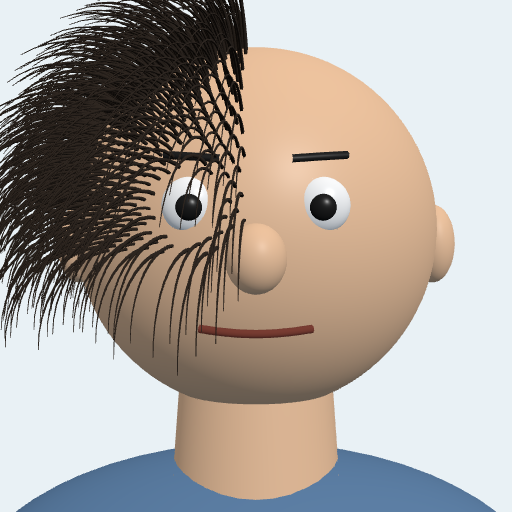
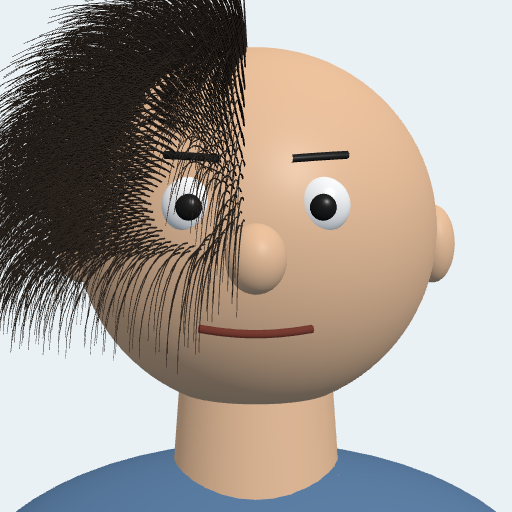
毛はえ放題: 毛を細く・本数を増やす
Claude-Session: https://claude.ai/code/session_012CJabZ1fPZ3dToUCoxXZwD

Changed region(s): [[0.0, 0.0, 0.5, 0.6875]]

diff --git a/games/hair-grow/index.html b/games/hair-grow/index.html
@@ -198,7 +198,7 @@
     });
 
     // ---------- 毛：1本ずつモーフ（毛根 ⇔ 長いうねり毛） ----------
-    const SEG = 10, RAD = 6, LONG = 1.1;
+    const SEG = 8, RAD = 4, LONG = 1.1;
     function strand(len, bend) {
       const pos = [], c = new THREE.Vector3(0, 0, 0);
       const center = [];
@@ -211,7 +211,7 @@
       for (let i = 0; i <= SEG; i++) {
         const a = bend * (i / SEG) * 1.6;
         const nY = new THREE.Vector3(0, -Math.sin(a), Math.cos(a)); // 断面の向き
-        const r = (len > 0.01 ? 0.016 : 0.0) * (1 - 0.85 * i / SEG);
+        const r = (len > 0.01 ? 0.0075 : 0.0) * (1 - 0.8 * i / SEG);
         for (let j = 0; j < RAD; j++) {
           const th = j / RAD * Math.PI * 2;
           const p = center[i].clone().addScaledVector(new THREE.Vector3(1, 0, 0), Math.cos(th) * r).addScaledVector(nY, Math.sin(th) * r);
@@ -234,7 +234,7 @@
 
     // 毛根を頭に並べる（目と口はよける）
     const roots = [];
-    const N = 4200, GA = Math.PI * (3 - Math.sqrt(5));
+    const N = 13000, GA = Math.PI * (3 - Math.sqrt(5));
     const avoid = [[-0.3, 0.12, 0.17], [0.3, 0.12, 0.17], [0, -0.45, 0.12], [0, -0.12, 0.16], [-0.29, 0.34, 0.07], [0.29, 0.34, 0.07]];
     for (let i = 0; i < N; i++) {
       const y = 1 - 2 * (i + 0.5) / N, r = Math.sqrt(1 - y * y), th = GA * i;
@@ -245,8 +245,13 @@
       roots.push(p);
     }
     const hairMat = new THREE.MeshStandardMaterial({ color: 0x2a2018, roughness: 0.7 });
-    const hair = new THREE.InstancedMesh(hairGeo, hairMat, roots.length);
-    hair.frustumCulled = false;
+    // 本数が多いと伸び具合のテクスチャが縦に長くなりすぎるので、4000本ずつに分ける
+    const CH = 4000, hairs = [];
+    for (let s = 0; s < roots.length; s += CH) {
+      const m = new THREE.InstancedMesh(hairGeo, hairMat, Math.min(CH, roots.length - s));
+      m.frustumCulled = false; hairs.push(m); head.add(m);
+    }
+    const hm = i => hairs[Math.floor(i / CH)];
     const m4 = new THREE.Matrix4(), up = new THREE.Vector3(), zz = new THREE.Vector3(), xx = new THREE.Vector3();
     roots.forEach((p, i) => {
       up.copy(p).normalize();
@@ -255,13 +260,13 @@
       zz.normalize(); xx.crossVectors(up, zz);
       m4.makeBasis(xx, up, zz).setPosition(p.clone().multiplyScalar(0.995));
       const s = 0.85 + Math.random() * 0.3; m4.scale(new THREE.Vector3(1, s, s));
-      hair.setMatrixAt(i, m4);
+      hm(i).setMatrixAt(i % CH, m4);
     });
     const vals = new Float32Array(roots.length);
     const dummy = { morphTargetInfluences: [0] };
-    const setV = (i, v) => { vals[i] = v; dummy.morphTargetInfluences[0] = v; hair.setMorphAt(i, dummy); };
+    const setV = (i, v) => { vals[i] = v; dummy.morphTargetInfluences[0] = v; hm(i).setMorphAt(i % CH, dummy); };
+    const flush = () => hairs.forEach(m => { m.morphTexture.needsUpdate = true; });
     roots.forEach((_, i) => setV(i, 0));
-    head.add(hair);
 
     // ---------- 画面サイズ ----------
     function resize() {
@@ -281,7 +286,7 @@
       tool = b.dataset.tool;
       document.querySelectorAll('.tool').forEach(x => x.classList.toggle('on', x === b));
     });
-    $('reset').onclick = () => { roots.forEach((_, i) => setV(i, 0)); hair.morphTexture.needsUpdate = true; };
+    $('reset').onclick = () => { roots.forEach((_, i) => setV(i, 0)); flush(); };
 
     const ray = new THREE.Raycaster(), ndc = new THREE.Vector2();
     const pointers = new Map();
@@ -323,7 +328,7 @@
     const up_ = e => { pointers.delete(e.pointerId); if (pointers.size === 0) { brush = null; rot = null; } };
     cv.addEventListener('pointerup', up_); cv.addEventListener('pointercancel', up_);
 
-    const BR = 0.2;
+    const BR = 0.15;
     function applyBrush(p, amt) {
       let changed = false;
       for (let i = 0; i < roots.length; i++) {
@@ -335,7 +340,7 @@
           if (v !== vals[i]) { setV(i, v); changed = true; }
         } else if (vals[i] > 0 && d < BR * 0.85) { setV(i, 0); changed = true; }
       }
-      if (changed) { hair.morphTexture.needsUpdate = true; sfx(tool); }
+      if (changed) { flush(); sfx(tool); }
     }
 
     // ---------- ループ ----------
@@ -357,7 +362,7 @@
     });
 
     // アイコン作成など用
-    window.__hair = { roots, setV, hair, vals, head, setRot(y, x) { rotY = y; rotX = x; } };
+    window.__hair = { roots, setV, flush, vals, head, setRot(y, x) { rotY = y; rotX = x; } };
   </script>
 </body>
 </html>
